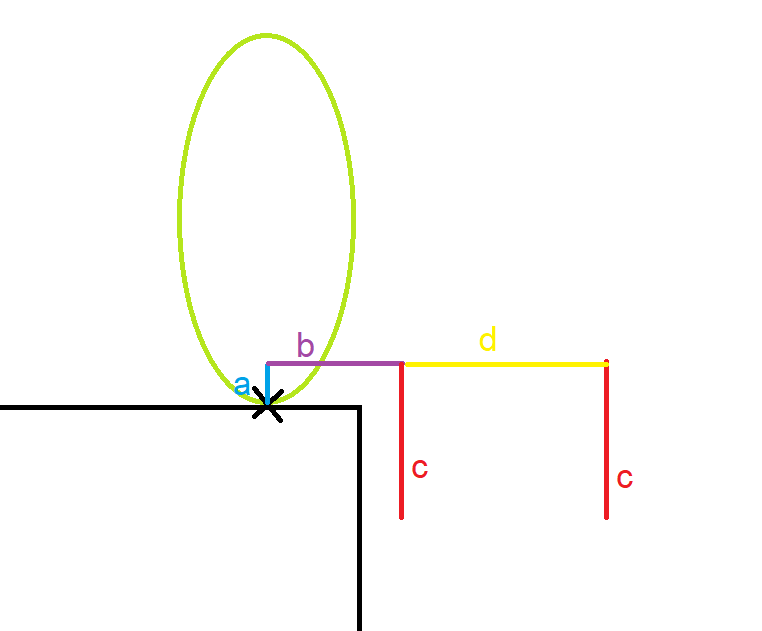
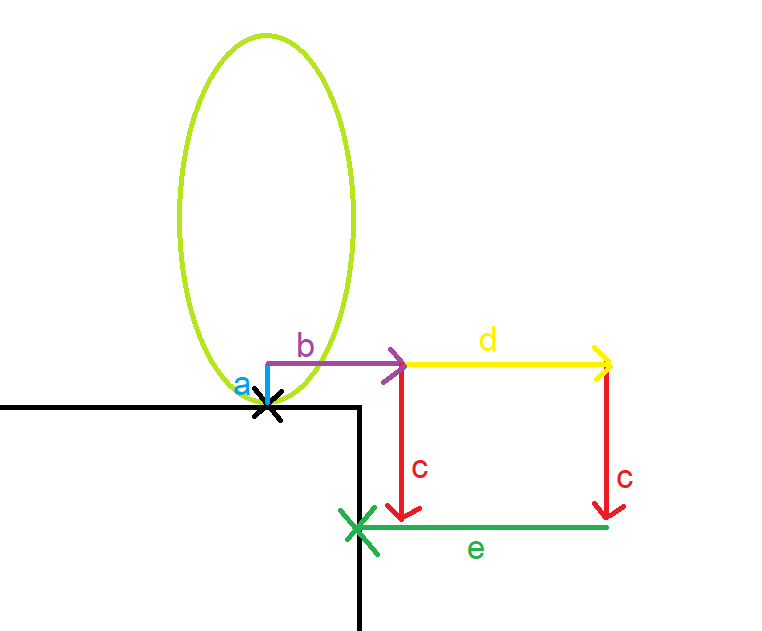
improved slopes doc

Changed region(s): [[0.4528, 0.7829, 0.815, 0.9033], [0.7848, 0.542, 0.815, 0.6022], [0.5131, 0.542, 0.5433, 0.6022]]

diff --git a/How_To/slope-changes.md b/How_To/slope-changes.md
@@ -15,8 +15,9 @@ These fields are used in your character processor in `IsGroundedOnHit`. `Kinemat
 
 a, b, c, d represent raycasts that are done by the method. The length of each raycast is calculated like so:
 * a: this is the `verticalOffset` parameter of the method
-* b : this is the result of the `deltaTimeIntoFuture` parameter of the method, multiplied by the length of our character velocity
-* c : this is the `downDetectionDepth` parameter of the method
-* d : this is the `secondaryEmptinessCheckDistance` parameter of the method
+* b: this is the result of the `deltaTimeIntoFuture` parameter of the method, multiplied by the length of our character velocity
+* c: this is the `downDetectionDepth` parameter of the method
+* d: this is the `secondaryEmptinessCheckDistance` parameter of the method
+* e: this is the length of "b" + the length of "b". This ray goes all the way back to the starting point horizontally
 
-The "b" raycast will attempt to detect any obstruction forward. It if hit something, we calculate the positive (upward) `futureSlopeChangeAnglesRadians` between our grounding and the hit slope. If not, we go ahead with the first "c" raycast. If this raycast hits something, we calculate the negative (downward) `futureSlopeChangeAnglesRadians` between our grounding and the slope. If we were not grounded on that hit, or if we didn't hit anything, we determine that we are moving towards emptiness and we set the `isMovingTowardsEmptiness` out parameter to true. Finally, if `isMovingTowardsEmptiness` is true at this point, we do a second "c" raycast further ahead, to make sure our first "c" raycast didn't just happen to go through a small crack in the ground. If the second "c" raycast finds a grounded hit, we reassign `isMovingTowardsEmptiness` to false
+The "b" raycast will attempt to detect any obstruction forward. It if hit something, we calculate the positive (upward) `futureSlopeChangeAnglesRadians` between our grounding and the hit slope. If not, we go ahead with the first "c" raycast. If this raycast hits something, we calculate the negative (downward) `futureSlopeChangeAnglesRadians` between our grounding and the slope. If we were not grounded on that hit, or if we didn't hit anything, we determine that we are moving towards emptiness and we set the `isMovingTowardsEmptiness` out parameter to true. If `isMovingTowardsEmptiness` is true at this point, we do a second "c" raycast further ahead, to make sure our first "c" raycast didn't just happen to go through a small crack in the ground. If the second "c" raycast finds a grounded hit, we reassign `isMovingTowardsEmptiness` to false. Finally, we do a backwards "e" raycast that will do a final attempt at detecting the slope angles.
